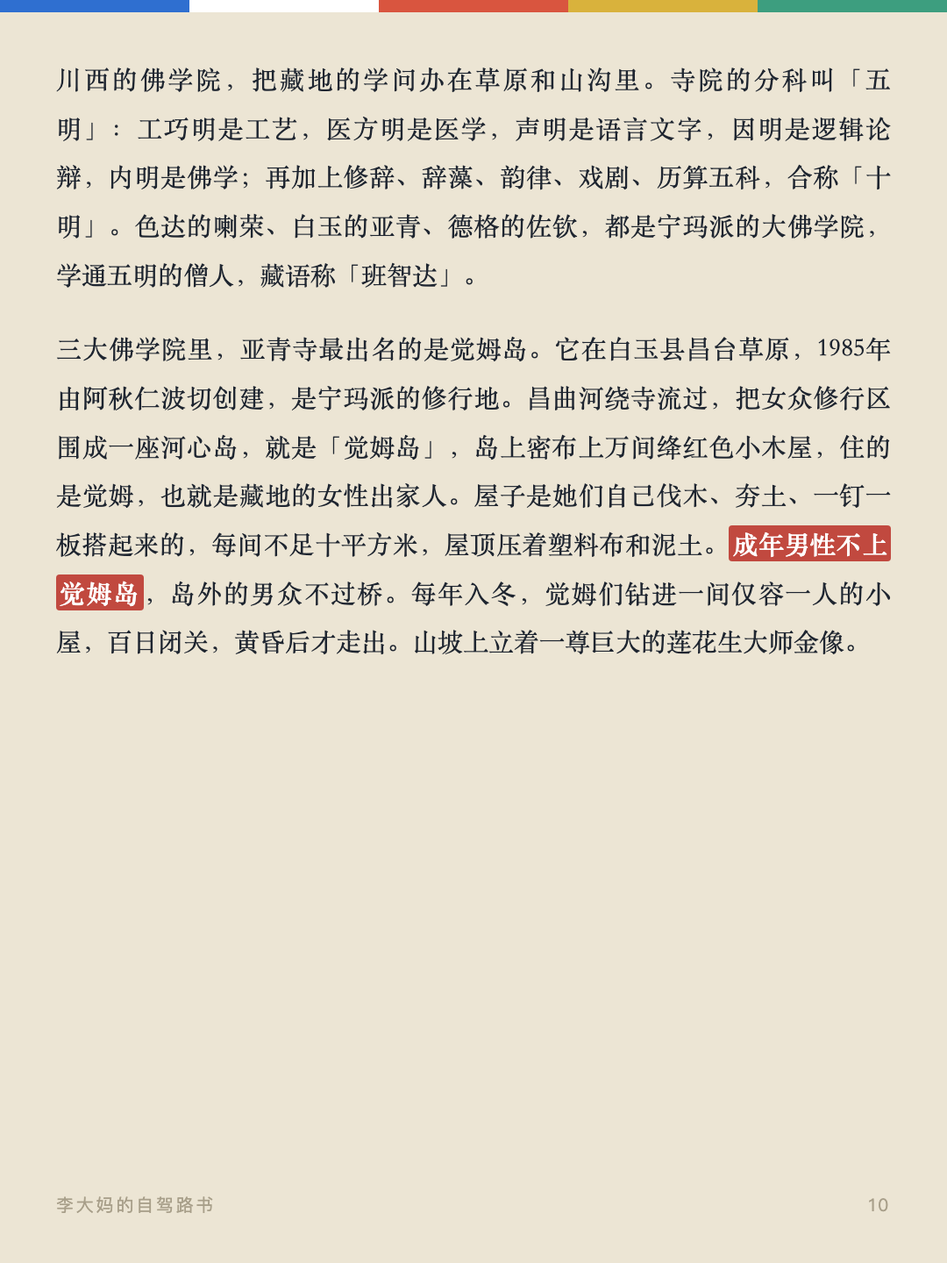
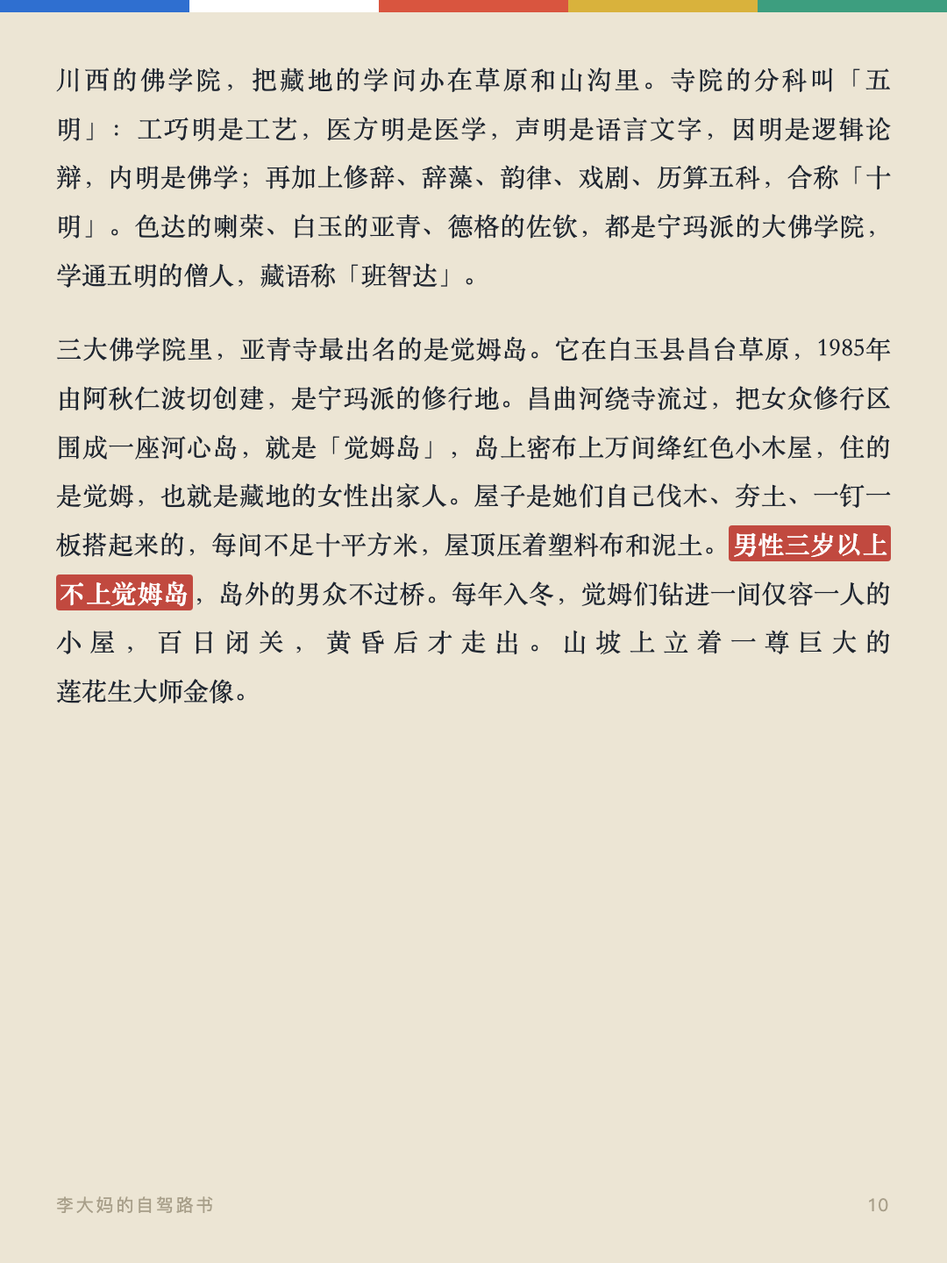
删植被尾句+觉姆岛改三岁以上禁入+修第10页孤字+全量重截18页

Changed region(s): [[0.0611, 0.4062, 0.9472, 0.5625]]

diff --git a/cards.html b/cards.html
@@ -131,7 +131,7 @@
 
 <div class="card" id="card4"><div class="flag" aria-hidden="true"><span style="background:var(--flag-blue)"></span><span style="background:var(--flag-white)"></span><span style="background:var(--flag-red)"></span><span style="background:var(--flag-yellow)"></span><span style="background:var(--flag-green)"></span></div><div class="card__inner"><h2>山河的地图</h2><p class="card__lead">山河决定地图。山脉怎么切，路就怎么修。</p><p>川西怎么来的。约4000万到5000万年前，印度板块撞上欧亚板块，把一片浅海抬成陆地，就是青藏高原，川西在高原的东南缘。碰撞到现在没停，高原还在缓慢升高。</p><p>山脉全是南北走向。横断山把川西切成一列列山岭，从东往西：邛崃山，四姑娘山在主脊上；大雪山，贡嘎山海拔7508.9米，蜀山之王；沙鲁里山；雀儿山。山与山之间夹着河谷，路顺着河谷修，镇子落在河谷里。<strong>川西的聚落跟着山河走，不跟着行政区划走。</strong></p><p>河流往三处去。东部是大渡河，小金、金川、丹巴都在它的水系里；雅砻江从甘孜县城边流过；金沙江是德格的西界，德格县城在金沙江东岸。三条江各走各的，最后都汇进长江。</p><p>海子是古冰川留下的湖。冰期冰川刨出的洼地积水成湖，理塘到稻城之间的海子山，古冰川退去后留下1145个高原湖泊。单个看，康定的木格措、九龙的伍须海、巴塘的措普湖各有各的颜色，德格雀儿山下的新路海紧挨着雪峰。</p><p>川西地震多，因为它在鲜水河断裂带上。这条断裂带从中部纵贯，历史上强震不断。对旅行者，最实在的是<strong>路况随时可能因塌方管制</strong>；很多陡崖和河谷的走向，就是断裂带运动的痕迹。</p><div class="card__foot"><span>李大妈的自驾路书</span><span>04</span></div></div></div>
 
-<div class="card" id="card5"><div class="flag" aria-hidden="true"><span style="background:var(--flag-blue)"></span><span style="background:var(--flag-white)"></span><span style="background:var(--flag-red)"></span><span style="background:var(--flag-yellow)"></span><span style="background:var(--flag-green)"></span></div><div class="card__inner"><p>植被随海拔分层，从山谷到垭口一路换。2500米以下是针阔混交林；2500到3500米是云杉冷杉的针叶林，高山杜鹃夹在林里；3500到4500米是高山灌丛和高山草甸，冬虫夏草、雪茶都长在这一层；4500米以上是流石滩，雪莲贴着碎石长。<strong>同一条路翻几座山，一天走完四个植被带，别处南北几千公里才有的植被变化，在这里按海拔一层层排</strong>。</p><p>吃的也跟海拔走。青稞是高原的当家作物，炒熟磨成糌粑，拌上酥油茶捏成团，是藏人的日常主食；酥油茶用砖茶和酥油熬，热量高、解渴御寒，当地有<strong>「宁可三日无肉，不可一日无茶」</strong>的说法。牦牛在海拔3500米以上放养，肉干、火锅、炖汤都常见；血肠是待客的上等菜，牛血或羊血和肉丁灌进小肠煮熟。松茸这类菌子长在森林里，集中在金沙江、雅砻江、大渡河上中游的高山峡谷，夏秋雨后出得多，炖鸡、涮锅都常吃。这些不用刻意找，路边饭馆的菜单上就有。</p><div class="card__foot"><span>李大妈的自驾路书</span><span>05</span></div></div></div>
+<div class="card" id="card5"><div class="flag" aria-hidden="true"><span style="background:var(--flag-blue)"></span><span style="background:var(--flag-white)"></span><span style="background:var(--flag-red)"></span><span style="background:var(--flag-yellow)"></span><span style="background:var(--flag-green)"></span></div><div class="card__inner"><p>植被随海拔分层，从山谷到垭口一路换。2500米以下是针阔混交林；2500到3500米是云杉冷杉的针叶林，高山杜鹃夹在林里；3500到4500米是高山灌丛和高山草甸，冬虫夏草、雪茶都长在这一层；4500米以上是流石滩，雪莲贴着碎石长。<strong>同一条路翻几座山，一天走完四个植被带。</strong></p><p>吃的也跟海拔走。青稞是高原的当家作物，炒熟磨成糌粑，拌上酥油茶捏成团，是藏人的日常主食；酥油茶用砖茶和酥油熬，热量高、解渴御寒，当地有<strong>「宁可三日无肉，不可一日无茶」</strong>的说法。牦牛在海拔3500米以上放养，肉干、火锅、炖汤都常见；血肠是待客的上等菜，牛血或羊血和肉丁灌进小肠煮熟。松茸这类菌子长在森林里，集中在金沙江、雅砻江、大渡河上中游的高山峡谷，夏秋雨后出得多，炖鸡、涮锅都常吃。这些不用刻意找，路边饭馆的菜单上就有。</p><div class="card__foot"><span>李大妈的自驾路书</span><span>05</span></div></div></div>
 
 <div class="card" id="card6"><div class="flag" aria-hidden="true"><span style="background:var(--flag-blue)"></span><span style="background:var(--flag-white)"></span><span style="background:var(--flag-red)"></span><span style="background:var(--flag-yellow)"></span><span style="background:var(--flag-green)"></span></div><div class="card__inner"><h2>路上的驾驶学</h2><p class="card__lead">车是腿，慢是快。一半技术，一半克制。</p><p>川西路上要让的，是大货车和牧民的牛羊。弯道不超车。<strong>让路是这条路的默认礼节</strong>。</p><p>高原开车有两个隐性风险。长下坡一直踩刹车会热衰减，要用低挡位和发动机制动；超车动力衰减，要留出比平原长得多的余量。冰雪路面上，四驱也一样打滑，<strong>慢才是安全</strong>。</p><p>手机信号在县城和景区都有，支线基本没有。<strong>离开主路之前，给家人或朋友发一个位置</strong>，让他们知道人在哪。进了支线，信号就断了，把没信号当默认状态。应急手段：中国电信有手机直连卫星业务，华为、小米等部分手机开通后，不换卡不换号就能在无信号区通话、发定位；雅安318自驾大本营有全国首个城市卫星服务站，可以租天通卫星设备，按天十元左右。</p><h3>加油</h3><p>加油站集中在县城和几个大镇，见油就加。认准中石油、中石化，避开私人黑站。理塘到稻城之间约200公里没有加油站，G317甘孜到德格一带靠马尼干戈这类节点补给。<strong>油箱过半就找下一个县城</strong>。</p><div class="card__foot"><span>李大妈的自驾路书</span><span>06</span></div></div></div>
 
@@ -141,7 +141,7 @@
 
 <div class="card" id="card9"><div class="flag" aria-hidden="true"><span style="background:var(--flag-blue)"></span><span style="background:var(--flag-white)"></span><span style="background:var(--flag-red)"></span><span style="background:var(--flag-yellow)"></span><span style="background:var(--flag-green)"></span></div><div class="card__inner"><p>路边的符号，各有含义。经幡也叫风马旗，五种颜色对应蓝天、白云、红火、江河、大地，挂在山顶风口，<strong>藏人相信风吹动一次等于诵经一次</strong>。玛尼堆是刻了六字真言的石块堆，路人经过会念着真言添一块石头，不搬走当纪念品。白塔源于古印度的覆钵式佛塔，路过捡块石头放上去，或献条哈达许愿。德格佐钦寺的白塔是尼泊尔风格，方形塔顶四面画着佛眼，<strong>和加德满都的博达哈大佛塔同一形制</strong>，博达哈是全世界最大的覆钵塔。转经筒里装着经文，转一圈等于念诵一遍，藏人转经廊、转佛塔、转寺院都是这个逻辑。六字真言「唵嘛呢叭咪吽」是观世音菩萨的总持咒，被看作雪域佛法最根本的念诵。</p><p>和信仰打交道，有几条规矩：<strong>绕行一律顺时针，只有苯教是逆时针</strong>。磕长头是身敬、语敬、意敬三者合一，额头叩地的瞬间，心里同时念咒、观想，这是他们能磕几千公里的原因。煨桑是烧香柏枝，敬献给神佛的香火，也是祈愿的仪式。献哈达要看对象：白色最普遍，黄色献给活佛和高僧，五彩哈达被视为菩萨的衣裳，只在隆重场合用。<strong>哈达只递到对方手里，不能挂脖子上，只有长辈给晚辈才往脖子上搭</strong>。天葬是藏人把遗体布施给神鹰，被认为是最高的舍身布施，<strong>全程严禁围观、拍照，当地有明文规定，连打听都不要</strong>。另有几条硬规矩：<strong>不摸别人的头，佛像、唐卡、经书不指</strong>，非要指就五指并拢、手心朝上，不进人家供奉的佛堂，不取献给塔上的供品，过门槛不踩。</p><div class="card__foot"><span>李大妈的自驾路书</span><span>09</span></div></div></div>
 
-<div class="card" id="card10"><div class="flag" aria-hidden="true"><span style="background:var(--flag-blue)"></span><span style="background:var(--flag-white)"></span><span style="background:var(--flag-red)"></span><span style="background:var(--flag-yellow)"></span><span style="background:var(--flag-green)"></span></div><div class="card__inner"><p>川西的佛学院，把藏地的学问办在草原和山沟里。寺院的分科叫「五明」：工巧明是工艺，医方明是医学，声明是语言文字，因明是逻辑论辩，内明是佛学；再加上修辞、辞藻、韵律、戏剧、历算五科，合称「十明」。色达的喇荣、白玉的亚青、德格的佐钦，都是宁玛派的大佛学院，学通五明的僧人，藏语称「班智达」。</p><p>三大佛学院里，亚青寺最出名的是觉姆岛。它在白玉县昌台草原，1985年由阿秋仁波切创建，是宁玛派的修行地。昌曲河绕寺流过，把女众修行区围成一座河心岛，就是「觉姆岛」，岛上密布上万间绛红色小木屋，住的是觉姆，也就是藏地的女性出家人。屋子是她们自己伐木、夯土、一钉一板搭起来的，每间不足十平方米，屋顶压着塑料布和泥土。<strong>成年男性不上觉姆岛</strong>，岛外的男众不过桥。每年入冬，觉姆们钻进一间仅容一人的小屋，百日闭关，黄昏后才走出。山坡上立着一尊巨大的莲花生大师金像。</p><div class="card__foot"><span>李大妈的自驾路书</span><span>10</span></div></div></div>
+<div class="card" id="card10"><div class="flag" aria-hidden="true"><span style="background:var(--flag-blue)"></span><span style="background:var(--flag-white)"></span><span style="background:var(--flag-red)"></span><span style="background:var(--flag-yellow)"></span><span style="background:var(--flag-green)"></span></div><div class="card__inner"><p>川西的佛学院，把藏地的学问办在草原和山沟里。寺院的分科叫「五明」：工巧明是工艺，医方明是医学，声明是语言文字，因明是逻辑论辩，内明是佛学；再加上修辞、辞藻、韵律、戏剧、历算五科，合称「十明」。色达的喇荣、白玉的亚青、德格的佐钦，都是宁玛派的大佛学院，学通五明的僧人，藏语称「班智达」。</p><p>三大佛学院里，亚青寺最出名的是觉姆岛。它在白玉县昌台草原，1985年由阿秋仁波切创建，是宁玛派的修行地。昌曲河绕寺流过，把女众修行区围成一座河心岛，就是「觉姆岛」，岛上密布上万间绛红色小木屋，住的是觉姆，也就是藏地的女性出家人。屋子是她们自己伐木、夯土、一钉一板搭起来的，每间不足十平方米，屋顶压着塑料布和泥土。<strong>男性三岁以上不上觉姆岛</strong>，岛外的男众不过桥。每年入冬，觉姆们钻进一间仅容一人的小屋，百日闭关，黄昏后才走出。山坡上立着一尊巨大的<span class="nowrap">莲花生大师金像。</span></p><div class="card__foot"><span>李大妈的自驾路书</span><span>10</span></div></div></div>
 
 <div class="card" id="card11"><div class="flag" aria-hidden="true"><span style="background:var(--flag-blue)"></span><span style="background:var(--flag-white)"></span><span style="background:var(--flag-red)"></span><span style="background:var(--flag-yellow)"></span><span style="background:var(--flag-green)"></span></div><div class="card__inner"><h2>手艺的文明</h2><p class="card__lead">还在挣钱的传承，才是活传承。</p><p>麦宿在德格县金沙江东岸的河谷里，六千多居民有两千多位工匠，分布在三十多个工坊，做十六种手工艺。黑陶、铜铸、唐卡、木雕、藏香、藏纸、藏戏面具、金银加工、牛羊毛编织，被称为「中国藏族传统手工艺之乡」。<strong>它不是摆在展柜里的「非遗秀」</strong>。寺庙要佛像法器，本地人过日子要锅碗和经堂装饰，订单一直不断。麦宿进出不易，外头的东西不好运进来，要用的、要供的都得自己做，手艺就一代代传了下来。最出名的铜铸佛像，老匠人夏雷尼玛的鎏金铜是内地近乎失传的古法，他做的佛像因为工艺古朴精良，常被人冒充古董倒卖，甚至流到了国外。他女儿拍的《麦宿泥塑》纪录片，拿过国际手工艺视频大赛的一等奖。钦乐工坊还在用砂模、失蜡法铸利玛铜。后来县里建了扶贫车间，挂出「麦宿手造」的品牌，2024年还到成都开了集市。从一块铜皮到一尊佛像，工坊里能看到整套流程。手工工坊有现货，机压翻模的是仿品。</p><p>白玉河坡号称「格萨尔王的兵器库」，1300多年前就开始铸兵器，现在是国家级非遗「藏族金属锻造技艺」的代表，白玉藏刀最有名。13个行政村、230多家非遗工坊，<strong>是全国最大的藏族金属锻造群落</strong>，年订单超过1200万元。2025年8月，河坡手工艺文旅体融合园区开园，建起了藏族<span class="nowrap">金工博物馆</span>。</p><div class="card__foot"><span>李大妈的自驾路书</span><span>11</span></div></div></div>
 

diff --git a/index.html b/index.html
@@ -269,7 +269,7 @@
       <p>路边的符号，各有含义。经幡也叫风马旗，五种颜色对应蓝天、白云、红火、江河、大地，挂在山顶风口，<strong>藏人相信风吹动一次等于诵经一次</strong>。玛尼堆是刻了六字真言的石块堆，路人经过会念着真言添一块石头，不搬走当纪念品。白塔源于古印度的覆钵式佛塔，路过捡块石头放上去，或献条哈达许愿。德格佐钦寺的白塔是尼泊尔风格，方形塔顶四面画着佛眼，<strong>和加德满都的博达哈大佛塔同一形制</strong>，博达哈是全世界最大的覆钵塔。转经筒里装着经文，转一圈等于念诵一遍，藏人转经廊、转佛塔、转寺院都是这个逻辑。六字真言「唵嘛呢叭咪吽」是观世音菩萨的总持咒，被看作雪域佛法最根本的念诵。</p>
       <p>和信仰打交道，有几条规矩：<strong>绕行一律顺时针，只有苯教是逆时针</strong>。磕长头是身敬、语敬、意敬三者合一，额头叩地的瞬间，心里同时念咒、观想，这是他们能磕几千公里的原因。煨桑是烧香柏枝，敬献给神佛的香火，也是祈愿的仪式。献哈达要看对象：白色最普遍，黄色献给活佛和高僧，五彩哈达被视为菩萨的衣裳，只在隆重场合用。<strong>哈达只递到对方手里，不能挂脖子上，只有长辈给晚辈才往脖子上搭</strong>。天葬是藏人把遗体布施给神鹰，被认为是最高的舍身布施，<strong>全程严禁围观、拍照，当地有明文规定，连打听都不要</strong>。另有几条硬规矩：<strong>不摸别人的头，佛像、唐卡、经书不指</strong>，非要指就五指并拢、手心朝上，不进人家供奉的佛堂，不取献给塔上的供品，过门槛不踩。</p>
       <p>川西的佛学院，把藏地的学问办在草原和山沟里。寺院的分科叫「五明」：工巧明是工艺，医方明是医学，声明是语言文字，因明是逻辑论辩，内明是佛学；再加上修辞、辞藻、韵律、戏剧、历算五科，合称「十明」。色达的喇荣、白玉的亚青、德格的佐钦，都是宁玛派的大佛学院，学通五明的僧人，藏语称「班智达」。</p>
-      <p>三大佛学院里，亚青寺最出名的是觉姆岛。它在白玉县昌台草原，1985年由阿秋仁波切创建，是宁玛派的修行地。昌曲河绕寺流过，把女众修行区围成一座河心岛，就是「觉姆岛」，岛上密布上万间绛红色小木屋，住的是觉姆，也就是藏地的女性出家人。屋子是她们自己伐木、夯土、一钉一板搭起来的，每间不足十平方米，屋顶压着塑料布和泥土。<strong>成年男性不上觉姆岛</strong>，岛外的男众不过桥。每年入冬，觉姆们钻进一间仅容一人的小屋，百日闭关，黄昏后才走出。山坡上立着一尊巨大的莲花生大师金像。</p>
+      <p>三大佛学院里，亚青寺最出名的是觉姆岛。它在白玉县昌台草原，1985年由阿秋仁波切创建，是宁玛派的修行地。昌曲河绕寺流过，把女众修行区围成一座河心岛，就是「觉姆岛」，岛上密布上万间绛红色小木屋，住的是觉姆，也就是藏地的女性出家人。屋子是她们自己伐木、夯土、一钉一板搭起来的，每间不足十平方米，屋顶压着塑料布和泥土。<strong>男性三岁以上不上觉姆岛</strong>，岛外的男众不过桥。每年入冬，觉姆们钻进一间仅容一人的小屋，百日闭关，黄昏后才走出。山坡上立着一尊巨大的莲花生大师金像。</p>
     </section>
 
     <!-- 五、手艺的文明 -->

diff --git a/gen_cards.py b/gen_cards.py
@@ -46,7 +46,7 @@ BODY_STREAM = [
   ('p', '河流往三处去。东部是大渡河，小金、金川、丹巴都在它的水系里；雅砻江从甘孜县城边流过；金沙江是德格的西界，德格县城在金沙江东岸。三条江各走各的，最后都汇进长江。'),
   ('p', '海子是古冰川留下的湖。冰期冰川刨出的洼地积水成湖，理塘到稻城之间的海子山，古冰川退去后留下1145个高原湖泊。单个看，康定的木格措、九龙的伍须海、巴塘的措普湖各有各的颜色，德格雀儿山下的新路海紧挨着雪峰。'),
   ('p', '川西地震多，因为它在鲜水河断裂带上。这条断裂带从中部纵贯，历史上强震不断。对旅行者，最实在的是<strong>路况随时可能因塌方管制</strong>；很多陡崖和河谷的走向，就是断裂带运动的痕迹。'),
-  ('p', '植被随海拔分层，从山谷到垭口一路换。2500米以下是针阔混交林；2500到3500米是云杉冷杉的针叶林，高山杜鹃夹在林里；3500到4500米是高山灌丛和高山草甸，冬虫夏草、雪茶都长在这一层；4500米以上是流石滩，雪莲贴着碎石长。<strong>同一条路翻几座山，一天走完四个植被带，别处南北几千公里才有的植被变化，在这里按海拔一层层排</strong>。'),
+  ('p', '植被随海拔分层，从山谷到垭口一路换。2500米以下是针阔混交林；2500到3500米是云杉冷杉的针叶林，高山杜鹃夹在林里；3500到4500米是高山灌丛和高山草甸，冬虫夏草、雪茶都长在这一层；4500米以上是流石滩，雪莲贴着碎石长。<strong>同一条路翻几座山，一天走完四个植被带。</strong>'),
   ('p', '吃的也跟海拔走。青稞是高原的当家作物，炒熟磨成糌粑，拌上酥油茶捏成团，是藏人的日常主食；酥油茶用砖茶和酥油熬，热量高、解渴御寒，当地有<strong>「宁可三日无肉，不可一日无茶」</strong>的说法。牦牛在海拔3500米以上放养，肉干、火锅、炖汤都常见；血肠是待客的上等菜，牛血或羊血和肉丁灌进小肠煮熟。松茸这类菌子长在森林里，集中在金沙江、雅砻江、大渡河上中游的高山峡谷，夏秋雨后出得多，炖鸡、涮锅都常吃。这些不用刻意找，路边饭馆的菜单上就有。'),
   ('h2', '路上的驾驶学'),
   ('lead', '车是腿，慢是快。一半技术，一半克制。'),
@@ -67,7 +67,7 @@ BODY_STREAM = [
   ('p', '路边的符号，各有含义。经幡也叫风马旗，五种颜色对应蓝天、白云、红火、江河、大地，挂在山顶风口，<strong>藏人相信风吹动一次等于诵经一次</strong>。玛尼堆是刻了六字真言的石块堆，路人经过会念着真言添一块石头，不搬走当纪念品。白塔源于古印度的覆钵式佛塔，路过捡块石头放上去，或献条哈达许愿。德格佐钦寺的白塔是尼泊尔风格，方形塔顶四面画着佛眼，<strong>和加德满都的博达哈大佛塔同一形制</strong>，博达哈是全世界最大的覆钵塔。转经筒里装着经文，转一圈等于念诵一遍，藏人转经廊、转佛塔、转寺院都是这个逻辑。六字真言「唵嘛呢叭咪吽」是观世音菩萨的总持咒，被看作雪域佛法最根本的念诵。'),
   ('p', '和信仰打交道，有几条规矩：<strong>绕行一律顺时针，只有苯教是逆时针</strong>。磕长头是身敬、语敬、意敬三者合一，额头叩地的瞬间，心里同时念咒、观想，这是他们能磕几千公里的原因。煨桑是烧香柏枝，敬献给神佛的香火，也是祈愿的仪式。献哈达要看对象：白色最普遍，黄色献给活佛和高僧，五彩哈达被视为菩萨的衣裳，只在隆重场合用。<strong>哈达只递到对方手里，不能挂脖子上，只有长辈给晚辈才往脖子上搭</strong>。天葬是藏人把遗体布施给神鹰，被认为是最高的舍身布施，<strong>全程严禁围观、拍照，当地有明文规定，连打听都不要</strong>。另有几条硬规矩：<strong>不摸别人的头，佛像、唐卡、经书不指</strong>，非要指就五指并拢、手心朝上，不进人家供奉的佛堂，不取献给塔上的供品，过门槛不踩。'),
   ('p', '川西的佛学院，把藏地的学问办在草原和山沟里。寺院的分科叫「五明」：工巧明是工艺，医方明是医学，声明是语言文字，因明是逻辑论辩，内明是佛学；再加上修辞、辞藻、韵律、戏剧、历算五科，合称「十明」。色达的喇荣、白玉的亚青、德格的佐钦，都是宁玛派的大佛学院，学通五明的僧人，藏语称「班智达」。'),
-  ('p', '三大佛学院里，亚青寺最出名的是觉姆岛。它在白玉县昌台草原，1985年由阿秋仁波切创建，是宁玛派的修行地。昌曲河绕寺流过，把女众修行区围成一座河心岛，就是「觉姆岛」，岛上密布上万间绛红色小木屋，住的是觉姆，也就是藏地的女性出家人。屋子是她们自己伐木、夯土、一钉一板搭起来的，每间不足十平方米，屋顶压着塑料布和泥土。<strong>成年男性不上觉姆岛</strong>，岛外的男众不过桥。每年入冬，觉姆们钻进一间仅容一人的小屋，百日闭关，黄昏后才走出。山坡上立着一尊巨大的莲花生大师金像。'),
+  ('p', '三大佛学院里，亚青寺最出名的是觉姆岛。它在白玉县昌台草原，1985年由阿秋仁波切创建，是宁玛派的修行地。昌曲河绕寺流过，把女众修行区围成一座河心岛，就是「觉姆岛」，岛上密布上万间绛红色小木屋，住的是觉姆，也就是藏地的女性出家人。屋子是她们自己伐木、夯土、一钉一板搭起来的，每间不足十平方米，屋顶压着塑料布和泥土。<strong>男性三岁以上不上觉姆岛</strong>，岛外的男众不过桥。每年入冬，觉姆们钻进一间仅容一人的小屋，百日闭关，黄昏后才走出。山坡上立着一尊巨大的<span class="nowrap">莲花生大师金像。</span>'),
   ('h2', '手艺的文明'),
   ('lead', '还在挣钱的传承，才是活传承。'),
   ('p', '麦宿在德格县金沙江东岸的河谷里，六千多居民有两千多位工匠，分布在三十多个工坊，做十六种手工艺。黑陶、铜铸、唐卡、木雕、藏香、藏纸、藏戏面具、金银加工、牛羊毛编织，被称为「中国藏族传统手工艺之乡」。<strong>它不是摆在展柜里的「非遗秀」</strong>。寺庙要佛像法器，本地人过日子要锅碗和经堂装饰，订单一直不断。麦宿进出不易，外头的东西不好运进来，要用的、要供的都得自己做，手艺就一代代传了下来。最出名的铜铸佛像，老匠人夏雷尼玛的鎏金铜是内地近乎失传的古法，他做的佛像因为工艺古朴精良，常被人冒充古董倒卖，甚至流到了国外。他女儿拍的《麦宿泥塑》纪录片，拿过国际手工艺视频大赛的一等奖。钦乐工坊还在用砂模、失蜡法铸利玛铜。后来县里建了扶贫车间，挂出「麦宿手造」的品牌，2024年还到成都开了集市。从一块铜皮到一尊佛像，工坊里能看到整套流程。手工工坊有现货，机压翻模的是仿品。'),
